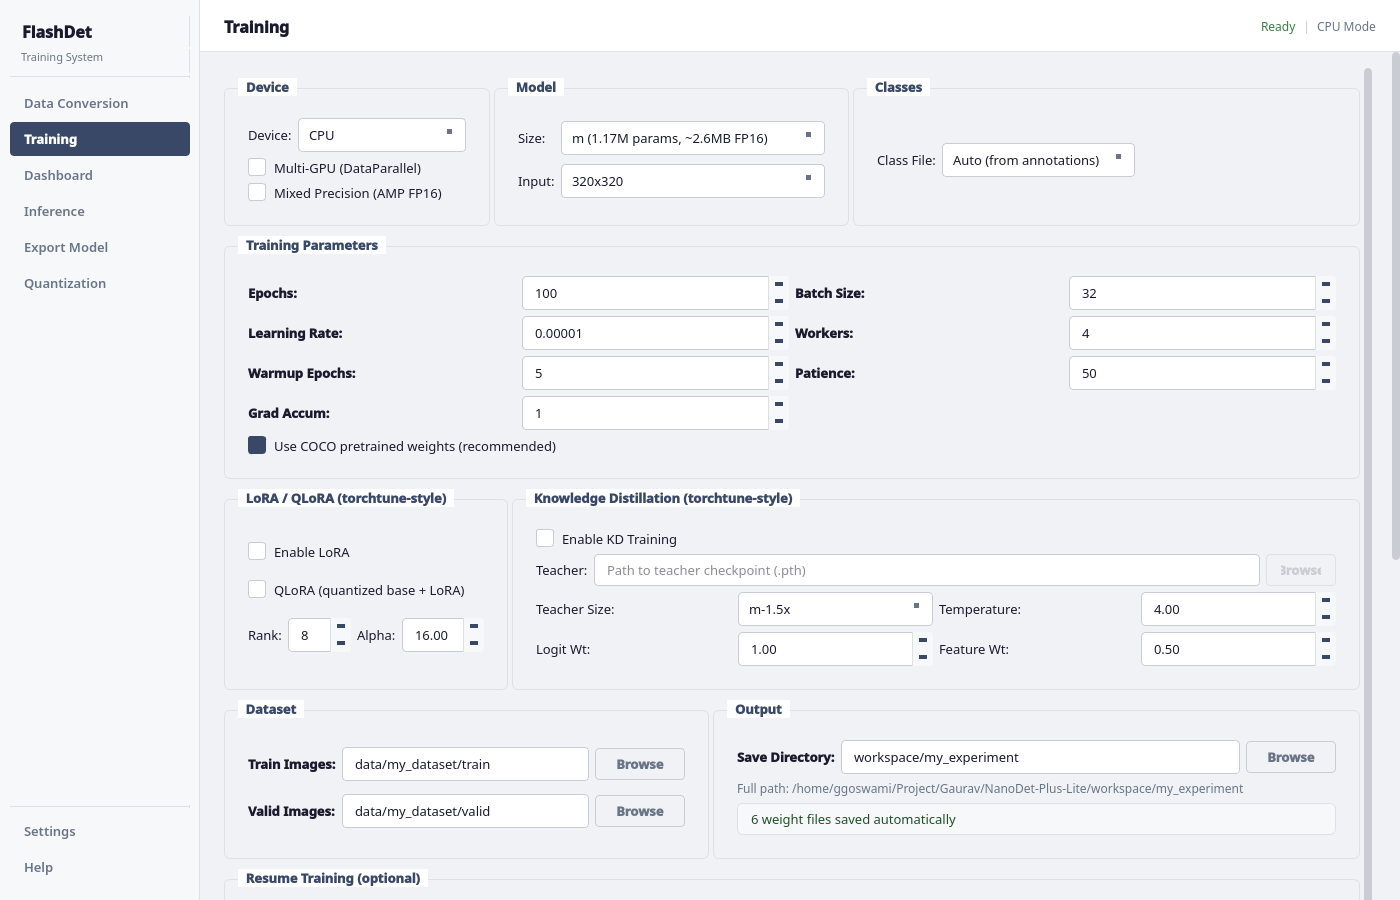
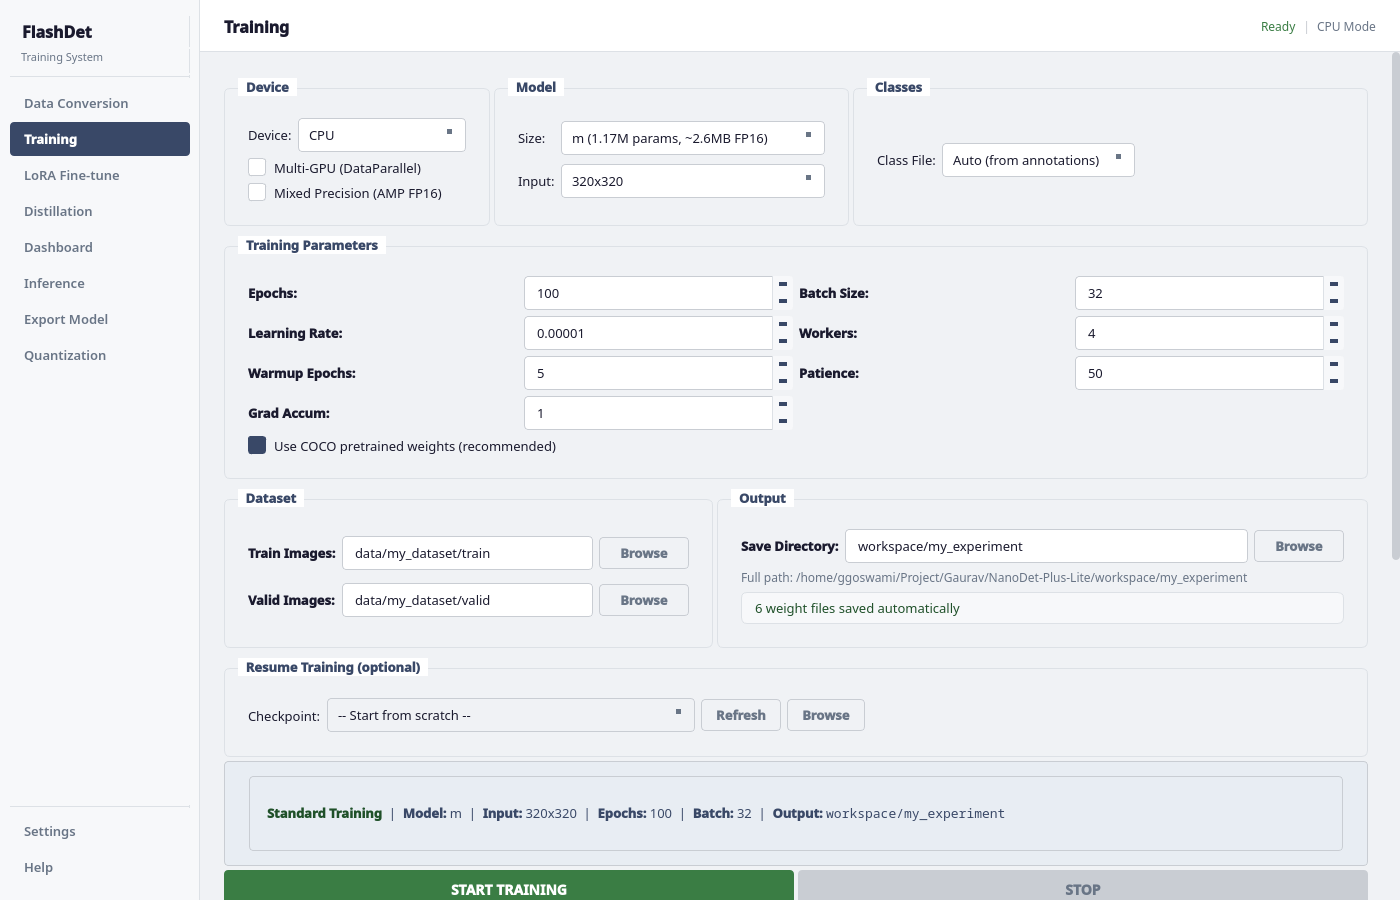
Add files via upload

diff --git a/scripts/take_screenshots.py b/scripts/take_screenshots.py
@@ -119,9 +119,34 @@ class ScreenshotCapture:
         _clean_all(tab)
         QTimer.singleShot(500, lambda: (self._snap("02_training"), self._advance()))
 
-    # ── 3. Dashboard ───────────────────────────────────────────────────
-    def setup_dashboard_tab(self):
+    # ── 3. LoRA Fine-tune ──────────────────────────────────────────────
+    def setup_lora_tab(self):
         self.window.switch_page(2)
+        tab = self.window.lora_tab_content
+
+        tab.train_path.setText("data/my_dataset/train")
+        tab.val_path.setText("data/my_dataset/valid")
+        tab.save_dir.setText("workspace/lora_finetune")
+
+        _clean_all(tab)
+        QTimer.singleShot(500, lambda: (self._snap("03_lora_finetune"), self._advance()))
+
+    # ── 4. Distillation ────────────────────────────────────────────────
+    def setup_kd_tab(self):
+        self.window.switch_page(3)
+        tab = self.window.kd_tab_content
+
+        tab.teacher_ckpt_edit.setText("workspace/teacher/model_best_inference.pth")
+        tab.train_path.setText("data/my_dataset/train")
+        tab.val_path.setText("data/my_dataset/valid")
+        tab.save_dir.setText("workspace/kd_experiment")
+
+        _clean_all(tab)
+        QTimer.singleShot(500, lambda: (self._snap("04_distillation"), self._advance()))
+
+    # ── 5. Dashboard ───────────────────────────────────────────────────
+    def setup_dashboard_tab(self):
+        self.window.switch_page(4)
         tab = self.window.dashboard_tab_content
 
         try:
@@ -134,7 +159,7 @@ class ScreenshotCapture:
             pass
 
         _clean_all(tab)
-        QTimer.singleShot(500, lambda: (self._snap("03_dashboard"), self._advance()))
+        QTimer.singleShot(500, lambda: (self._snap("05_dashboard"), self._advance()))
 
     def _finish_dashboard(self, tab):
         try:
@@ -142,11 +167,11 @@ class ScreenshotCapture:
         except Exception:
             pass
         _clean_all(tab)
-        QTimer.singleShot(600, lambda: (self._snap("03_dashboard"), self._advance()))
+        QTimer.singleShot(600, lambda: (self._snap("05_dashboard"), self._advance()))
 
-    # ── 4. Inference ───────────────────────────────────────────────────
+    # ── 6. Inference ───────────────────────────────────────────────────
     def setup_inference_tab(self):
-        self.window.switch_page(3)
+        self.window.switch_page(5)
         tab = self.window.inference_tab_content
 
         onnx_abs = os.path.join(project_root, "exported_models", "model.onnx")
@@ -180,7 +205,7 @@ class ScreenshotCapture:
             return
 
         _clean_all(tab)
-        QTimer.singleShot(500, lambda: (self._snap("04_inference"), self._advance()))
+        QTimer.singleShot(500, lambda: (self._snap("06_inference"), self._advance()))
 
     def _run_inference(self, tab):
         try:
@@ -192,11 +217,11 @@ class ScreenshotCapture:
         if hasattr(tab, "image_path_edit"):
             old = tab.image_path_edit.text()
             tab.image_path_edit.setText(_rel(old))
-        QTimer.singleShot(600, lambda: (self._snap("04_inference"), self._advance()))
+        QTimer.singleShot(600, lambda: (self._snap("06_inference"), self._advance()))
 
-    # ── 5. Export Model ────────────────────────────────────────────────
+    # ── 7. Export Model ────────────────────────────────────────────────
     def setup_export_tab(self):
-        self.window.switch_page(4)
+        self.window.switch_page(6)
         tab = self.window.export_tab_content
 
         tab.model_combo.clear()
@@ -209,11 +234,11 @@ class ScreenshotCapture:
             pass
 
         _clean_all(tab)
-        QTimer.singleShot(500, lambda: (self._snap("05_export"), self._advance()))
+        QTimer.singleShot(500, lambda: (self._snap("07_export"), self._advance()))
 
-    # ── 6. Quantization ───────────────────────────────────────────────
+    # ── 8. Quantization ───────────────────────────────────────────────
     def setup_quantization_tab(self):
-        self.window.switch_page(5)
+        self.window.switch_page(7)
         tab = self.window.quantization_tab_content
 
         tab.model_combo.clear()
@@ -232,7 +257,7 @@ class ScreenshotCapture:
             tab.vis_quant_combo.setCurrentIndex(0)
 
         _clean_all(tab)
-        QTimer.singleShot(500, lambda: (self._snap("06_quantization"), self._advance()))
+        QTimer.singleShot(500, lambda: (self._snap("08_quantization"), self._advance()))
 
     # ── main ──────────────────────────────────────────────────────────
     def run(self):
@@ -255,6 +280,8 @@ class ScreenshotCapture:
         self.steps = [
             self.setup_data_tab,
             self.setup_training_tab,
+            self.setup_lora_tab,
+            self.setup_kd_tab,
             self.setup_dashboard_tab,
             self.setup_inference_tab,
             self.setup_export_tab,